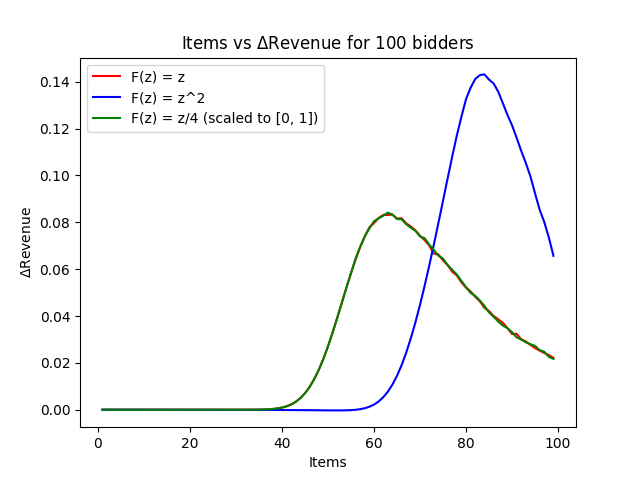
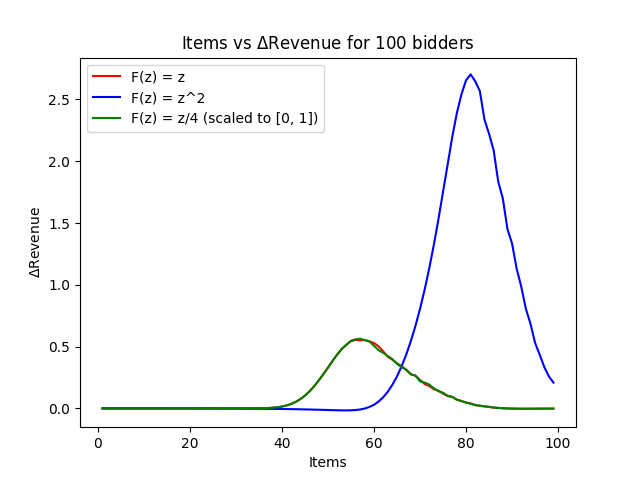
Updates

diff --git a/Project 4/Project4.py b/Project 4/Project4.py
@@ -1,6 +1,7 @@
 import numpy as np
 import math
 import matplotlib.pyplot as plt
+import random
 
 def exponential_weights(v, epsilon, h):
     """
@@ -58,7 +59,7 @@ def make_reserve_price_payoffs(bidders, inverse_distribution, reserve_prices, ro
     """
     v = np.zeros((len(reserve_prices), rounds))
     
-    for round in range(v.shape[1]):
+    for round in range(rounds):
         bidder_values = [inverse_distribution(np.random.uniform()) for _ in range(bidders)]
         bidder_values.sort()
         
@@ -80,8 +81,8 @@ def expected_reserve_price_from_EW(bidders, distributions, items=1, rounds=1000)
     Returns:
         the expected reserve price from exponential weights
     """
-    reserve_prices = np.divide(list(range(0, 10)), 10/distributions["F inverse"](1))
-    optimal_epsilon = np.sqrt(np.log(len(reserve_prices))/rounds)
+    reserve_prices = np.divide(list(range(0, 100)), 100/distributions["F inverse"](1))
+    optimal_epsilon = np.sqrt(np.log(len(reserve_prices))/rounds)/1000
     v = make_reserve_price_payoffs(bidders, distributions["F inverse"], reserve_prices, rounds, items)
     _, probabilities = exponential_weights(v, optimal_epsilon, distributions["F inverse"](1))
     
@@ -121,7 +122,7 @@ def expected_revenue(distribution, r, bidders, items):
     # case 3, more than one bidder are over
     case3 = 0
     for i in range(2, bidders+1):
-        case3 += (pr**(bidders-i) * (1-pr)**i * math.comb(bidders, i)) * distribution["E"](distribution["F"](r), 1, i, min(items+1, i))
+        case3 += (pr**(bidders-i) * (1-pr)**i * math.comb(bidders, i)) * distribution["E"](distribution["F"](r), 1, i, min(items+1, i)) * min(items, i)
         pr_sum += (pr**(bidders-i) * (1-pr)**i * math.comb(bidders, i))
         
     return case1 + case2 + case3
@@ -140,12 +141,16 @@ def F_1_E(low, high, bidders, i):
     uniform_sample = ((high-low)/(bidders+1))*(bidders-i+1)+low
     return F_1_inverse(uniform_sample)
 
+def vv_1(v):
+    return 2*v - 1
+
 distributions_1 = {
     "F": F_1,
     "F inverse": F_1_inverse,
     "f": F_1_density,
     "Optimal RP": 1/2,
-    "E": F_1_E
+    "E": F_1_E,
+    "virtual value": vv_1
 }
 
 def F_2(v):
@@ -161,12 +166,16 @@ def F_2_E(low, high, bidders, i):
     uniform_sample = ((high-low)/(bidders+1))*(bidders-i+1)+low
     return F_2_inverse(uniform_sample)
 
+def vv_2(v):
+    return v - ((1 - v**2) / 2*v)
+
 distributions_2 = {
     "F": F_2,
     "F inverse": F_2_inverse,
     "f": F_2_density,
     "Optimal RP": (1/3)**(1/2),
-    "E": F_2_E
+    "E": F_2_E,
+    "virtual value": vv_2
 }
 
 def F_3(v):
@@ -188,6 +197,31 @@ distributions_3 = {
     "f": F_3_density,
     "Optimal RP": 2,
     "E": F_3_E
+}
+
+def F_4(v):
+    return math.sqrt(v)
+
+def F_4_inverse(v):
+    return v**2
+
+def f_4(v):
+    return 1 / (2 * math.sqrt(v))
+
+def F_4_E(low, high, bidders, i):
+    uniform_sample = ((high-low)/(bidders+1))*(bidders-i+1)+low
+    return F_4_inverse(uniform_sample)
+
+def vv_4(v):
+    return 3 * v - 2 * math.sqrt(v)
+
+distributions_4 = {
+    "F": F_4,
+    "F inverse": F_4_inverse,
+    "f": f_4,
+    "Optimal RP": 0,
+    "E": F_4_E,
+    "virtual value": vv_4
 }
 
 # Part 1: 
@@ -220,14 +254,14 @@ def part1_items():
     for different distributions and different numbers of items
     """
     distributions = [distributions_1, distributions_2, distributions_3]
-    bidders=100
+    bidders=25
     items_arr = [list(range(1, bidders)) for _ in distributions]
     revenue_diff = [[0 for _ in items_arr[0]] for _ in items_arr]
     for i, dist in enumerate(distributions):
         for items in items_arr[i]:
             exp_rp = expected_reserve_price_from_EW(bidders, dist, items, 1000)
             opt_rp = dist["Optimal RP"]
-            revenue_diff[i][items-1]=expected_revenue(dist, opt_rp, bidders, items)-expected_revenue(dist, exp_rp, bidders, items)
+            revenue_diff[i][items-1]=expected_revenue(dist, opt_rp, bidders, items) - expected_revenue(dist, exp_rp, bidders, items)
     plt.plot(items_arr[0], revenue_diff[0], label='F(z) = z', color="Red")
     plt.plot(items_arr[1], revenue_diff[1], label='F(z) = z^2', color="Blue")
     plt.plot(items_arr[2], np.divide(revenue_diff[2], 4), label='F(z) = z/4 (scaled to [0, 1])', color="Green")
@@ -269,22 +303,81 @@ def part1_rounds():
     
 # generalized: for i in range bidders: expected_revenue += 2(v_i) + h
 
-def introductions_actual(employee_distributions, employer_distributions, employee_values, employer_values):
+# virtual value formulas for each distribution ~ U[0, 1] 
+# F(z) = z, F_2(z) = z^2, F_3(z) = sqrt(z) --> computer vv formula
+# truthful mechanism = introduce them if the sum of their virtual values is greater than 0
+# payoffs: 1 or 0
+# 
+
+def make_introduction_payoffs(distributions, rounds):
+    v = np.zeros((len(distributions), rounds))
+    
+    for round in range(rounds):
+        payoffs = [0 for _ in distributions]
+        values = [dist["virtual value"](np.random.uniform()) for dist in distributions]
+        should_introduce = False
+        for i in range(len(values)-1):
+            # values[0] is the employee
+            if values[i+1] + values[0] > 0:
+                should_introduce = True
+                payoffs[i+1] = 1
+        if not should_introduce:
+            payoffs[0] = 1
+        v[:, round] = payoffs
+    return v
+
+def introductions_optimal(employee_distributions, employers_distributions):
     # distributions is an array that looks like [0, h] for every person
     # values is a list of value for each person
 
-    introductions = np.zeros(len(employee_values), len(employer_values))
-    expected_revenues = np.zeros(len(employee_values), len(employer_values))
-    for i in range(len(employee_values)):
-        for j in range(len(employer_values)):
-            expected_revenues[i, j] = 2 * employee_values[i] - employee_distributions[i][1] + 2 * employer_values[j] -  employer_distributions[j][1]
-            introductions[i][j] = True if expected_revenues[i][j] > 0 else False
+    # get expected values for employee and employers for their distributions between 0 and 1
+    employee_value = employee_distributions["E"](0, 1, 1, 1)
+    employer_values = [dist["E"](0, 1, 1, 1) for dist in employers_distributions]
+    
+    introductions = np.zeros(1+len(employers_distributions))
+    should_meet = False
+    for i in range(len(employers_distributions)):
+        expected_revenue = employee_distributions["virtual value"](employee_value) + employers_distributions[i]["virtual value"](employer_values[i])
+        if expected_revenue > 0:
+            introductions[i+1] = 1
+            should_meet = True
+    if not should_meet:
+        introductions[0] = 1
 
-            
-   
-   
+    return introductions
 
+def introductions_EW(distributions, rounds=1000):
+    optimal_epsilon = np.sqrt(np.log(len(distributions))/rounds)
+    v = make_introduction_payoffs(distributions, rounds)
+    _, probabilities = exponential_weights(v, optimal_epsilon, 1)
+
+    return probabilities[:, -1]
+
+def part2():
+    rounds = [i*10 for i in range(1, 100)]
+    intro_diffs = [0 for _ in rounds]
+    
+    N = 1000
+    for i in range(len(rounds)):
+        for _ in range(N):
+            distrib = [distributions_1, distributions_2, distributions_4]
+            employee_distribution = random.choice(distrib)
+            distrib.remove(employee_distribution)
+            employer_distributions = [random.choice(distrib)]
+
+            opt_intro = introductions_optimal(employee_distribution, employer_distributions)
+            ew_intro = introductions_EW(np.concatenate([[employee_distribution], employer_distributions]))
+            intro_diffs[i] += np.sum([abs(o-ew) for o, ew in zip(opt_intro, ew_intro)])/2
+        intro_diffs[i] /= N
+
+    plt.plot(rounds, intro_diffs)
+    plt.xlabel("Rounds")
+    plt.ylabel("$\Delta$Introduction Probabilities")
+    plt.title(f"Rounds vs $\Delta$Introduction Probabilities")
+    plt.show()
+    
 
 if __name__ == '__main__':
     print("TEST PASSED" if abs(expected_revenue(distributions_1, 0.5, 2, 1) - 5/12) < 0.001 else "TEST FAILED")
-    part1_rounds()
+    #part1_rounds()
+    part2()
